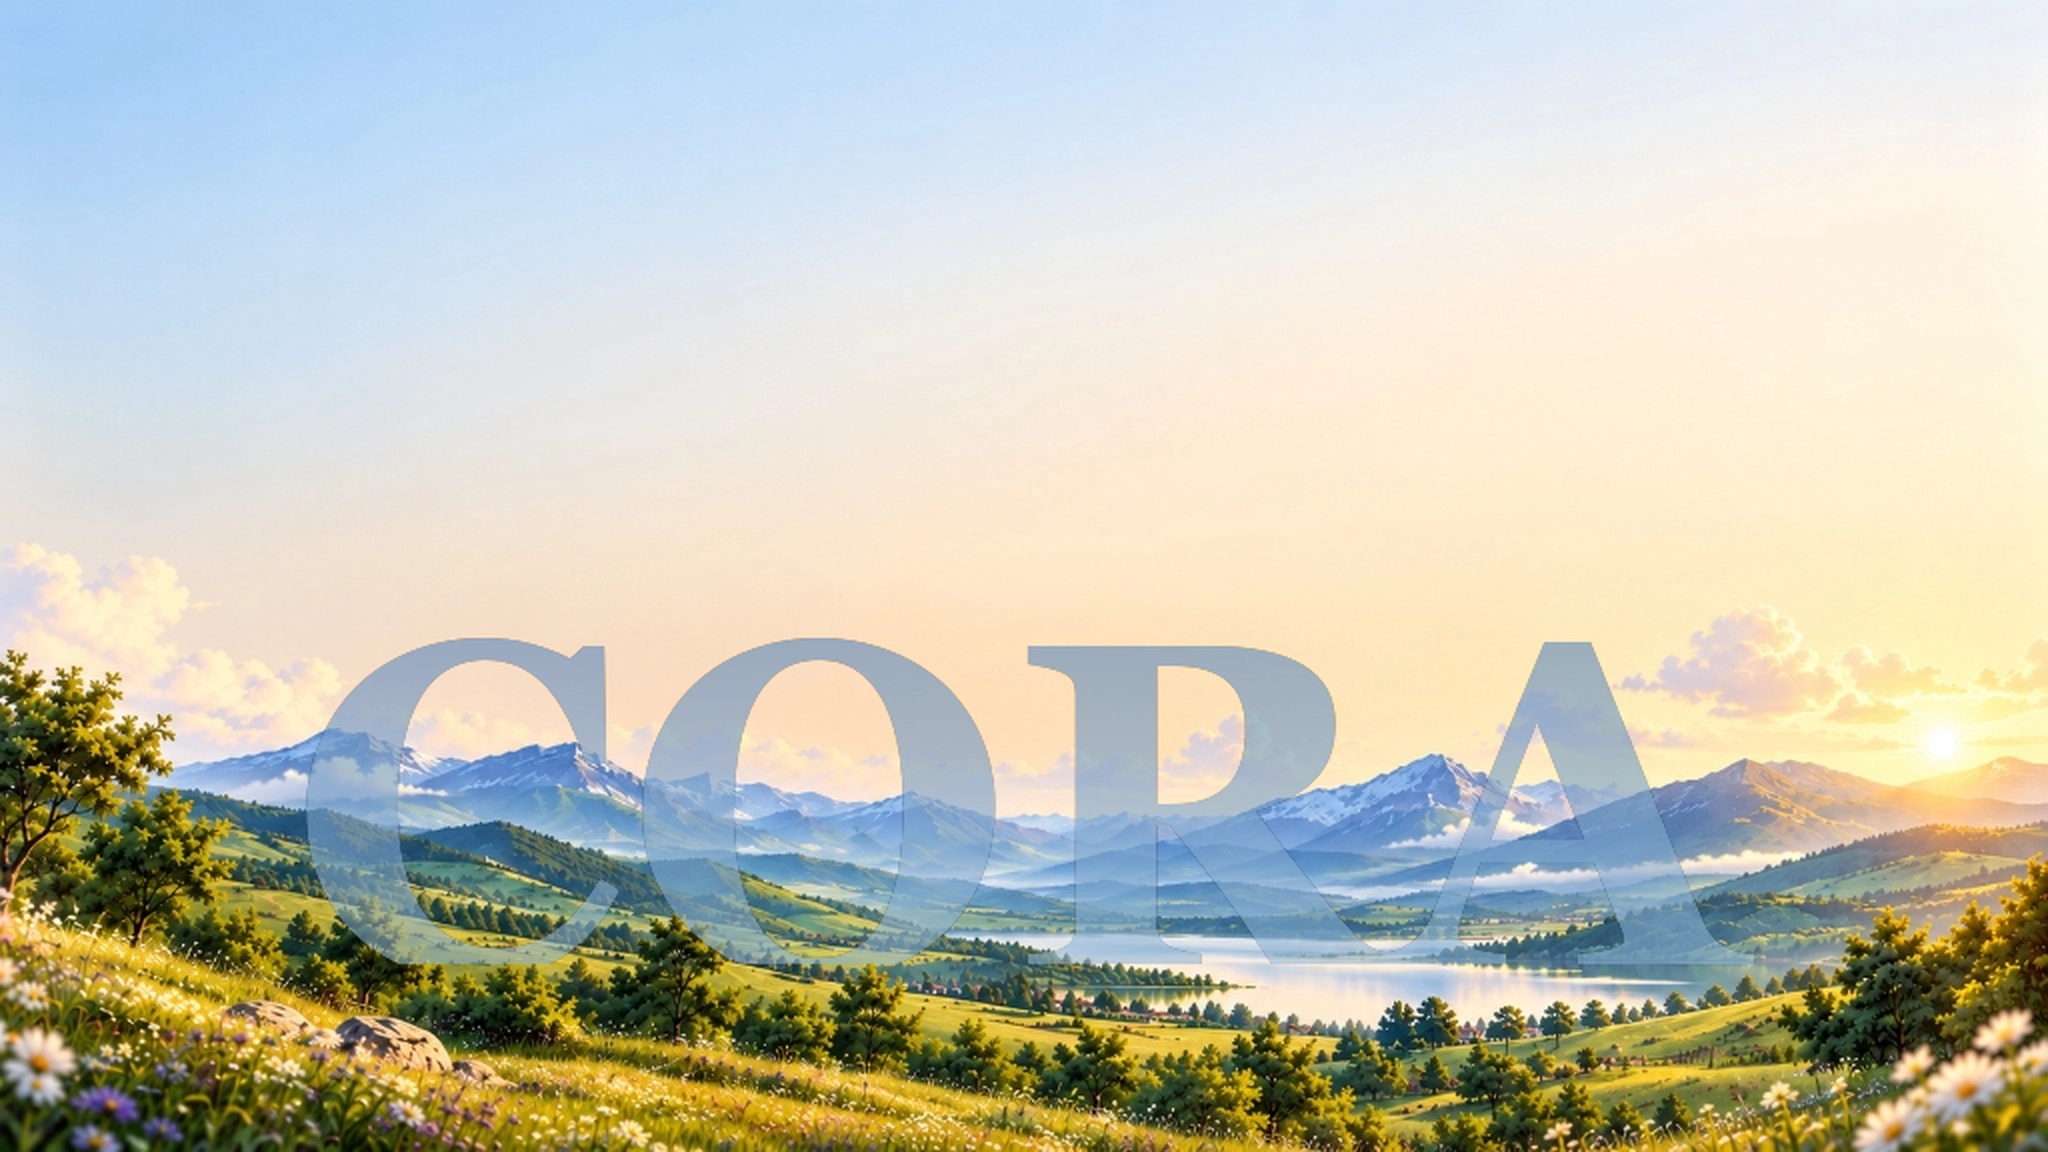
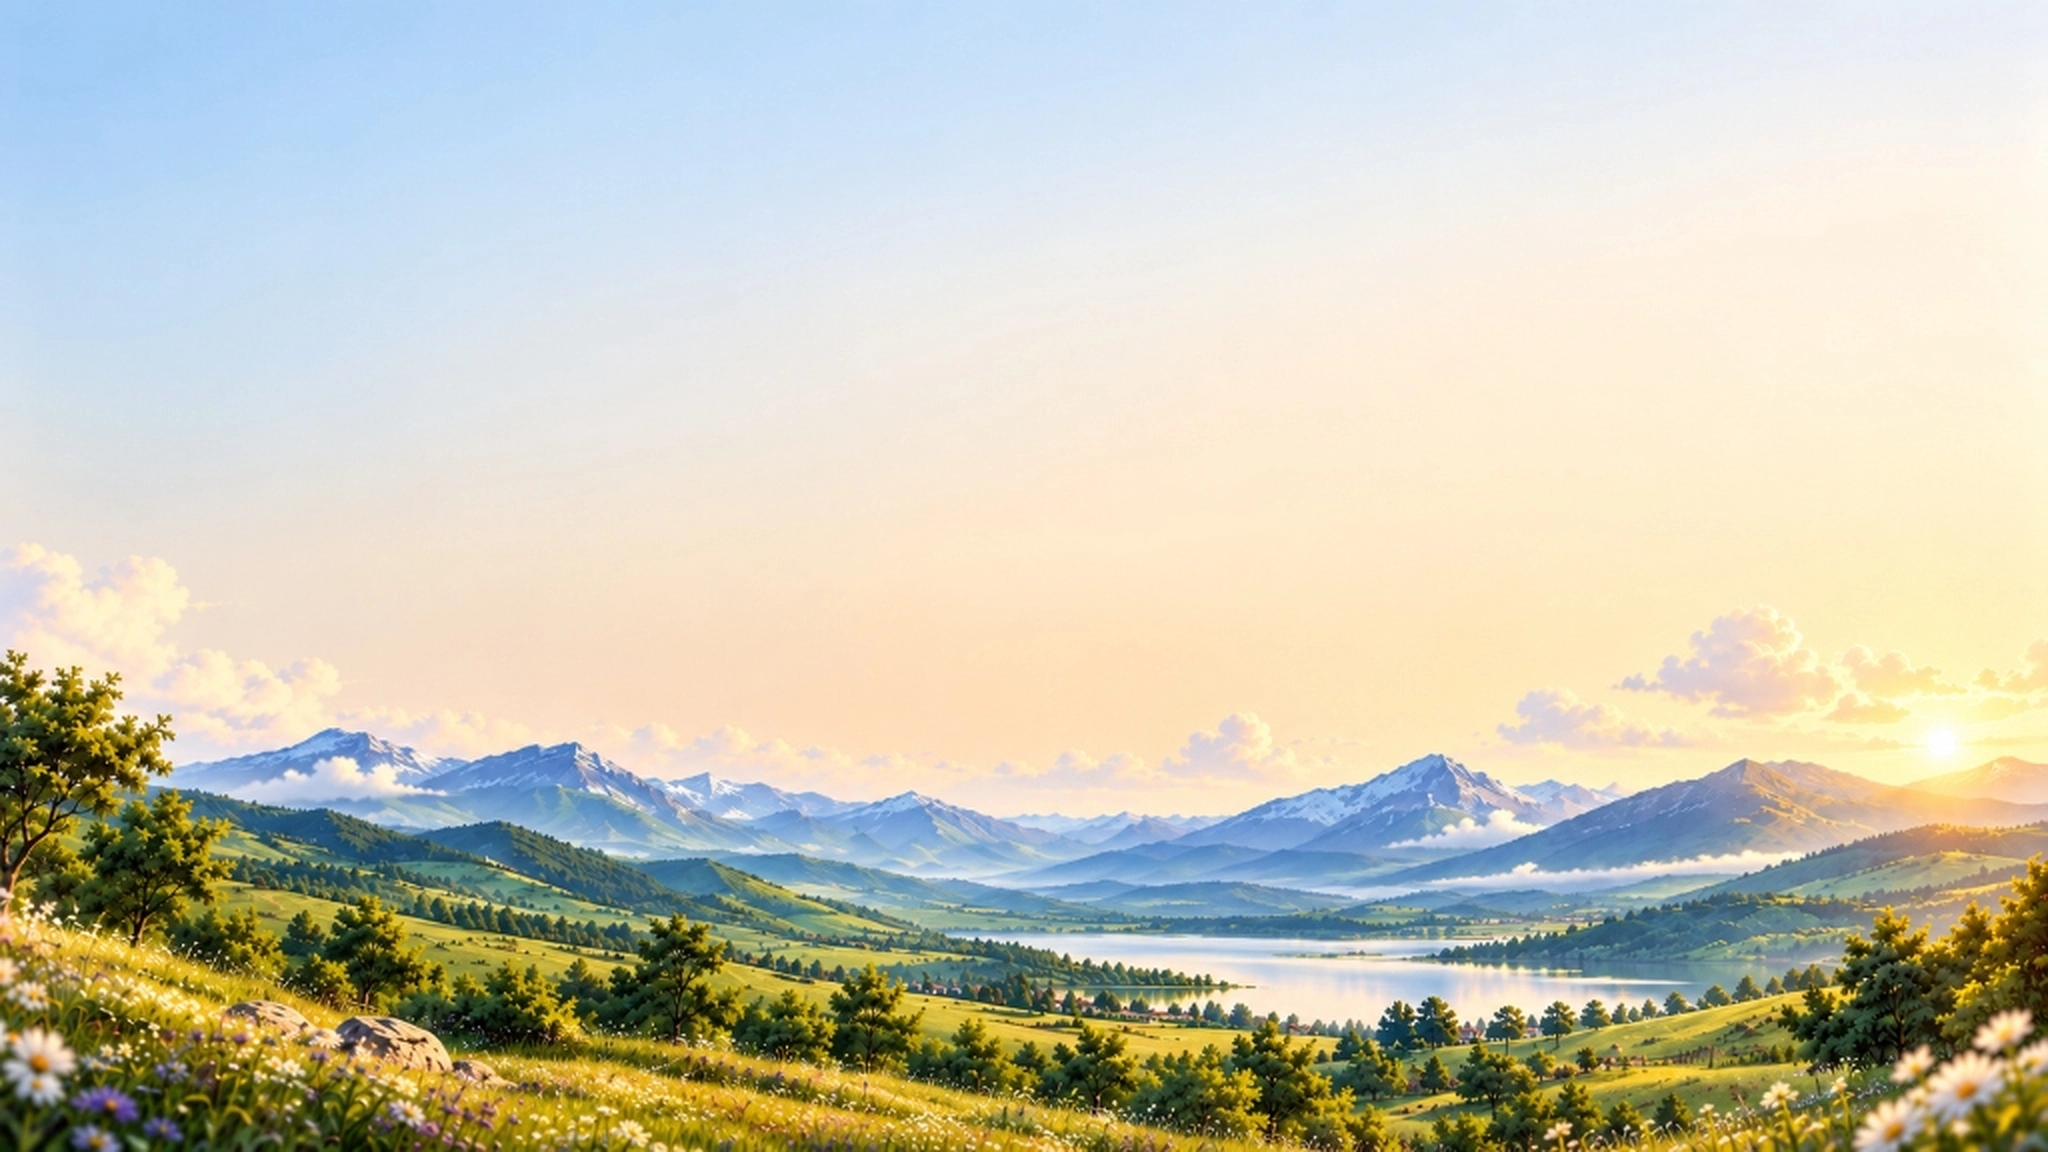
feat(footer): use clean background images with zero content overlap and grounded landscape horizon

Changed region(s): [[0.125, 0.5312, 0.6562, 0.8438], [0.5, 0.5312, 0.875, 0.8438]]

diff --git a/cora-frontend/components/layout/Footer.tsx b/cora-frontend/components/layout/Footer.tsx
@@ -117,39 +117,9 @@ export function Footer() {
   const shouldHideFooterCta = is404 || isLegalPage || isDocsPage || isToolDetailPage;
 
   return (
-    <footer className="relative w-full overflow-hidden pt-16 sm:pt-20 bg-[#FAF9F5]">
+    <footer className="relative w-full overflow-hidden pt-16 sm:pt-20 pb-0 bg-gradient-to-b from-transparent via-[#FAF9F5] to-[#FAF9F5]">
       
-      {/* ── Panoramic Landscape Background Layer ── */}
-      <div className="absolute inset-0 pointer-events-none select-none z-0">
-        {/* Mobile Portrait Artwork */}
-        <div className="relative w-full h-full block sm:hidden">
-          <Image
-            src="/images/cora_footer_bg_mobile.webp"
-            alt="Cora Horizon Mobile"
-            fill
-            sizes="100vw"
-            priority={false}
-            className="object-cover object-bottom"
-          />
-        </div>
-
-        {/* Desktop Landscape Artwork */}
-        <div className="relative w-full h-full hidden sm:block">
-          <Image
-            src="/images/cora_footer_bg_desktop.webp"
-            alt="Cora Horizon Desktop"
-            fill
-            sizes="100vw"
-            priority={false}
-            className="object-cover object-bottom"
-          />
-        </div>
-
-        {/* Soft top gradient blend transition into the footer canvas */}
-        <div className="absolute inset-0 bg-gradient-to-b from-[#FAF9F5] via-[#FAF9F5]/30 to-transparent pointer-events-none" />
-      </div>
-
-      <div className="relative z-10 w-full max-w-[1280px] mx-auto px-4 sm:px-6 md:px-8 pb-56 xs:pb-64 sm:pb-76 md:pb-88 lg:pb-96">
+      <div className="relative z-10 w-full max-w-[1280px] mx-auto px-4 sm:px-6 md:px-8">
         
         {/* ── Top Conversion CTA Banner (Hidden on 404, Docs, Legal & Tool Detail Pages) ── */}
         {!shouldHideFooterCta && (
@@ -410,6 +380,36 @@ export function Footer() {
           </div>
         </div>
 
+      </div>
+
+      {/* ── Grounded Scenic Horizon Artwork (Positioned strictly below sub-footer with zero content overlap) ── */}
+      <div className="relative w-full h-[180px] xs:h-[220px] sm:h-[300px] md:h-[380px] lg:h-[440px] overflow-hidden select-none pointer-events-none mt-4 sm:mt-6">
+        {/* Mobile Portrait Artwork */}
+        <div className="relative w-full h-full block sm:hidden">
+          <Image
+            src="/images/cora_footer_bg_mobile.webp"
+            alt="Cora Horizon Mobile"
+            fill
+            sizes="100vw"
+            priority={false}
+            className="object-cover object-[center_85%]"
+          />
+        </div>
+
+        {/* Desktop Landscape Artwork */}
+        <div className="relative w-full h-full hidden sm:block">
+          <Image
+            src="/images/cora_footer_bg_desktop.webp"
+            alt="Cora Horizon Desktop"
+            fill
+            sizes="100vw"
+            priority={false}
+            className="object-cover object-[center_45%]"
+          />
+        </div>
+
+        {/* Soft top gradient blend transition into the footer canvas */}
+        <div className="absolute top-0 inset-x-0 h-16 bg-gradient-to-b from-[#FAF9F5] via-[#FAF9F5]/40 to-transparent pointer-events-none" />
       </div>
 
     </footer>
